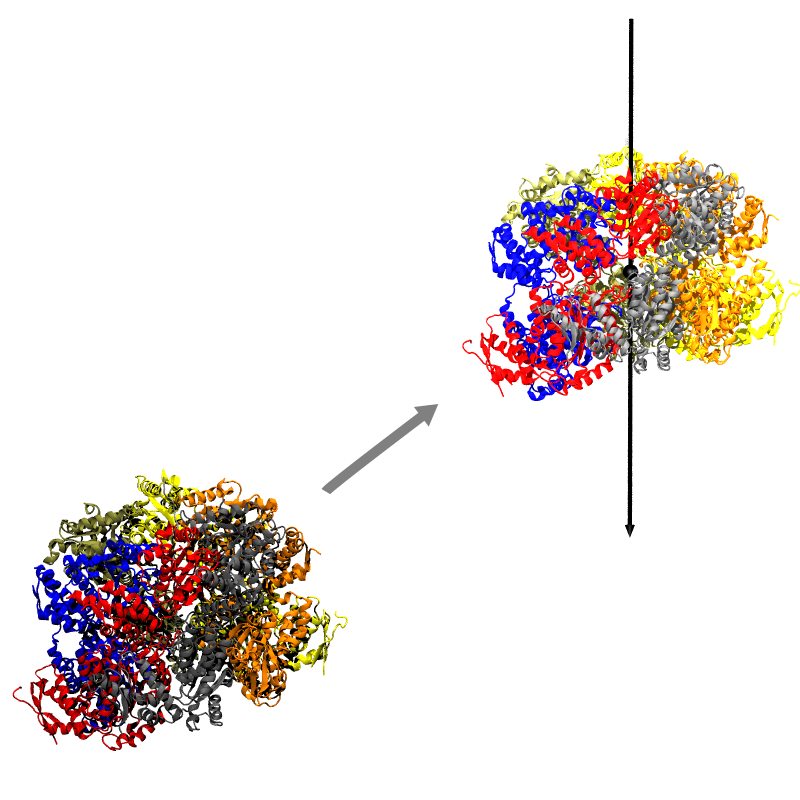
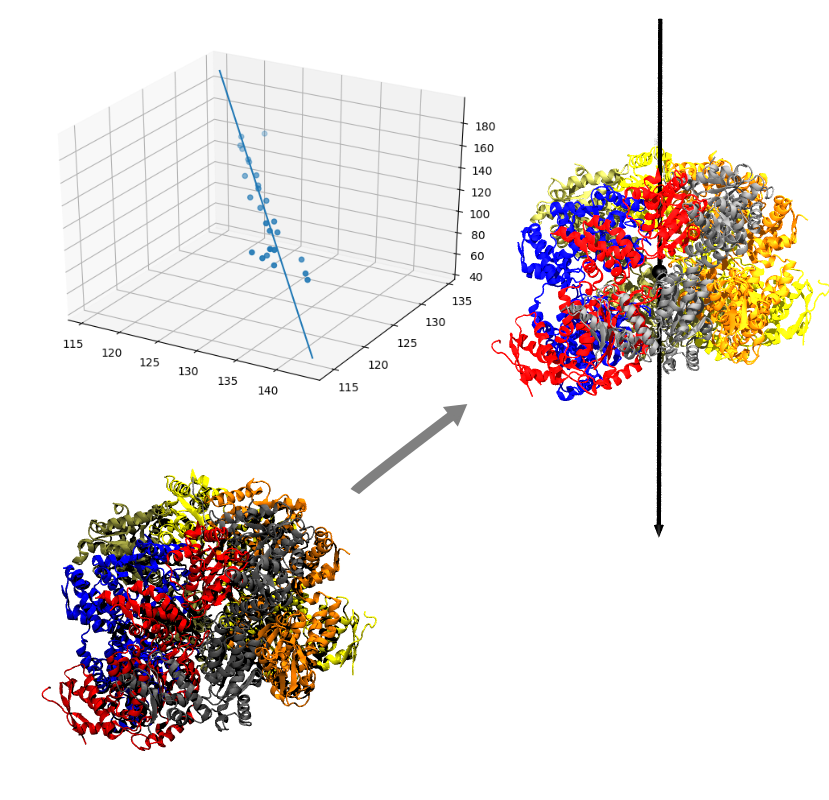
add viz of fitting results

diff --git a/README.md b/README.md
@@ -96,6 +96,6 @@ and can be obtained by
 grep ' CA ' 5vjh.pdb | grep ' P ' | awk '{print $7, $8, $9}' > channel.dat
 ```
 
-For a system without substrate present, channel residue atoms can also be used to find the channel vector. Below is a demo, where the origin `(0, 0, 0)` is shown as black bead and the arrow represents the Z axis.
+For a system without substrate present, channel residue atoms can also be used to find the channel vector. Below is the result of channel fitting and reorientation, where the origin `(0, 0, 0)` is shown as black bead and the arrow represents the Z axis.
 
 <img src="demo/11-orient-channel.png" width="80%" height="80%" alt="Before and after alignment of channel" align="center" />
